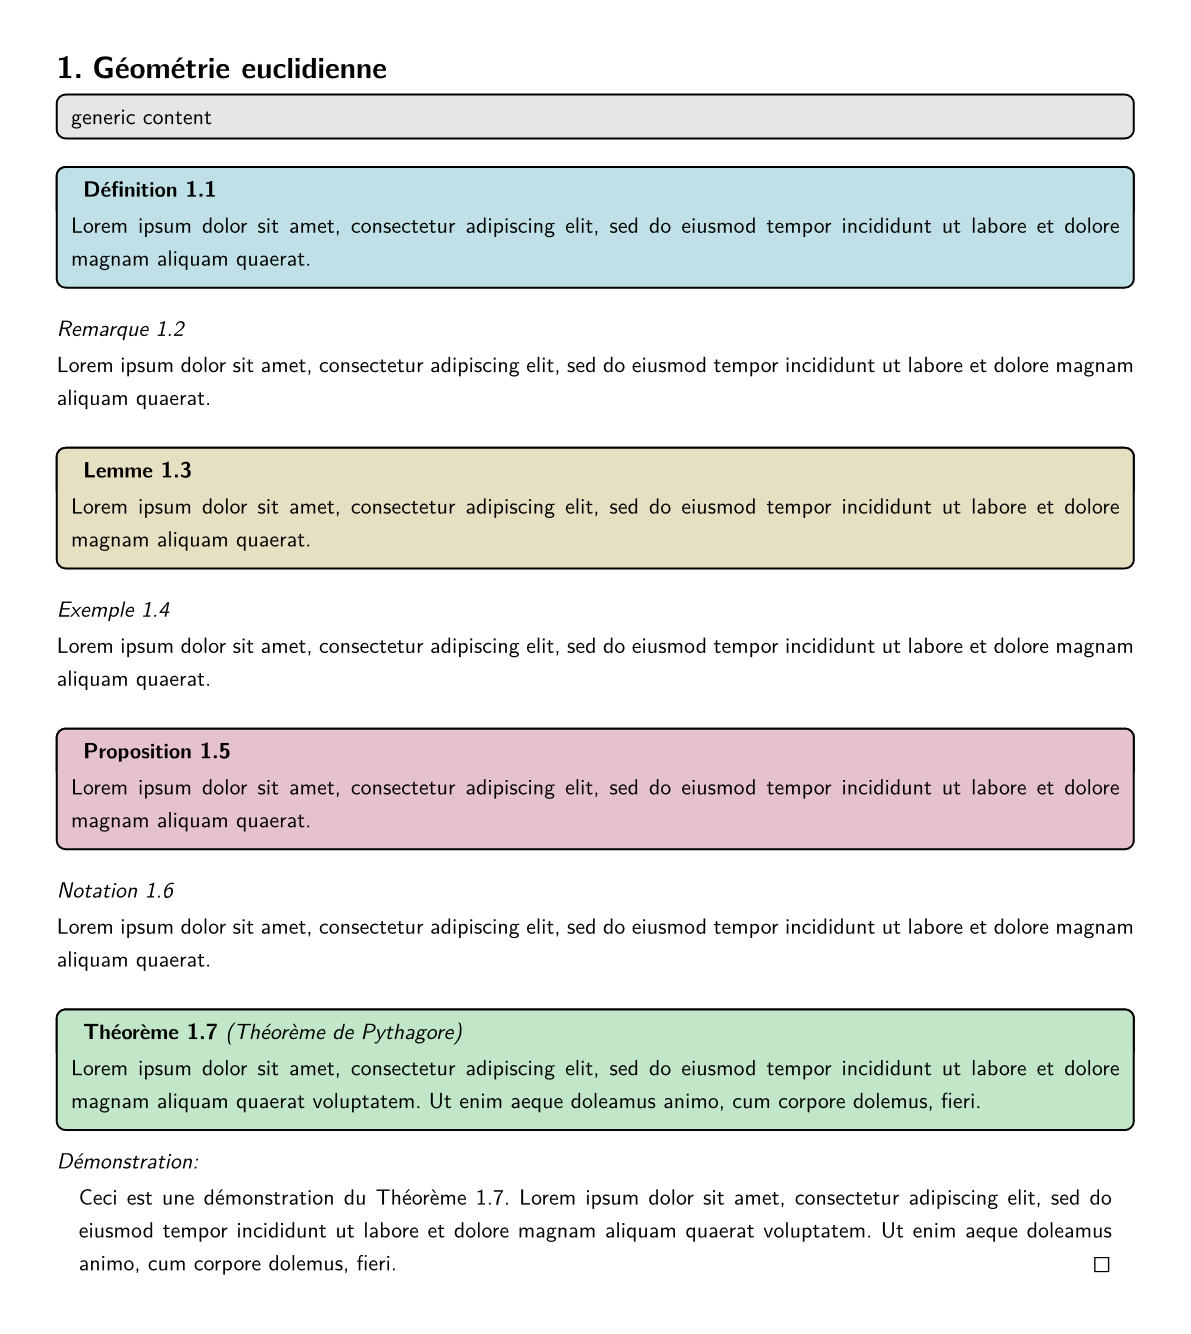
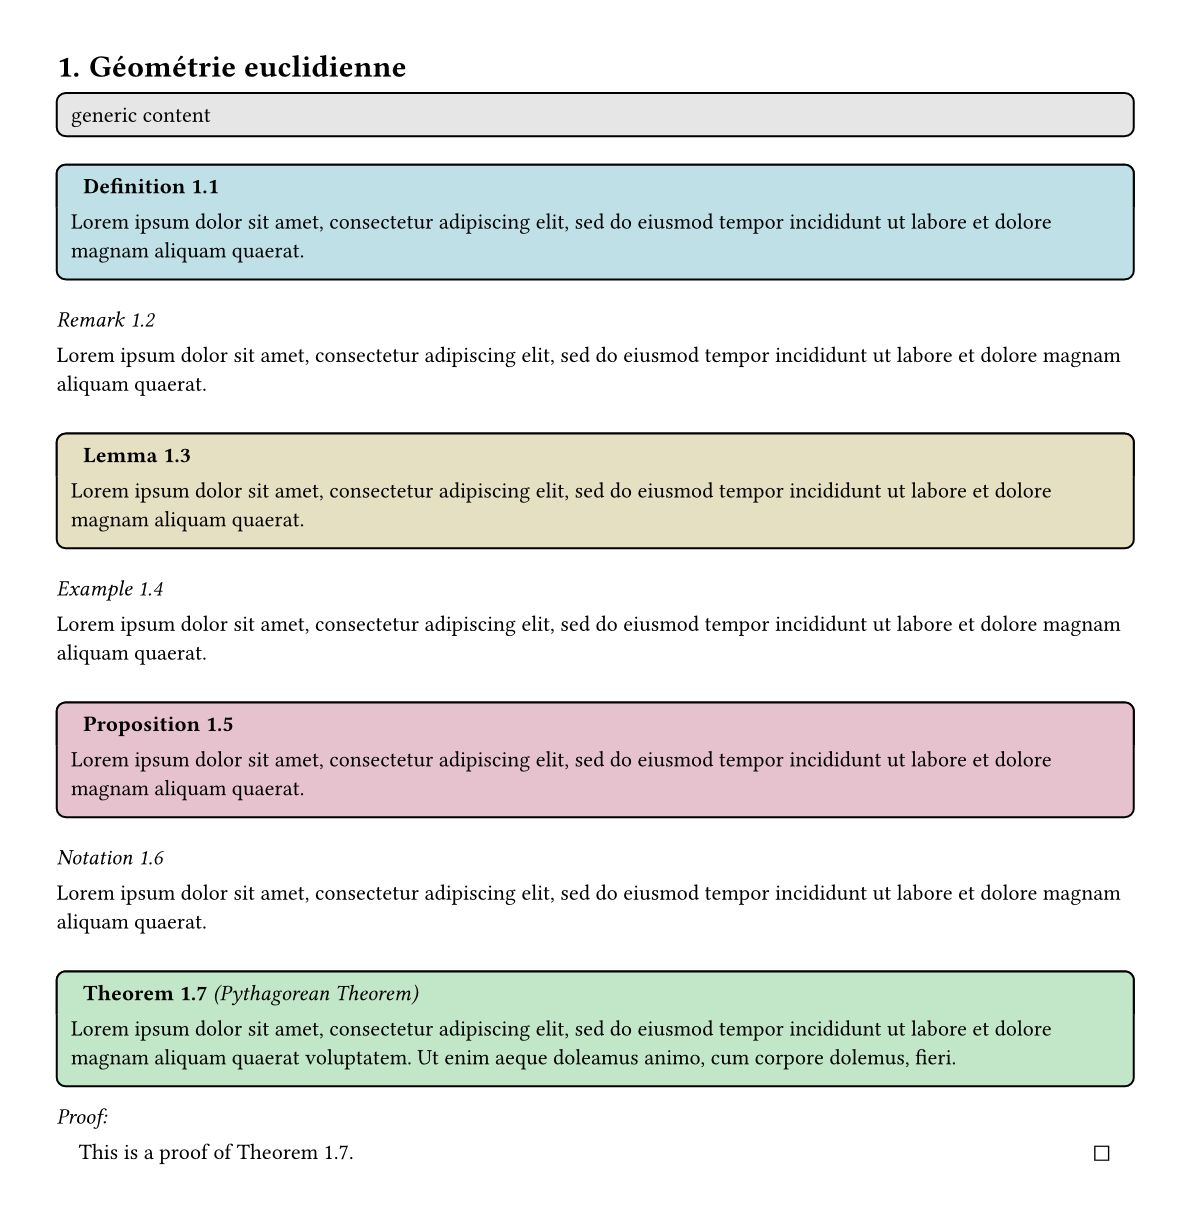
[fix] clean up README and examples

Changed region(s): [[0.0311, 0.0311, 0.9631, 0.964]]

diff --git a/README.md b/README.md
@@ -20,23 +20,18 @@ French, German and English are supported and theorem titles depend on text langa
 Simply download the package locally (as described on the [Typst Packages](https://github.com/typst/packages)) repository. Then import and use mathemateach. 
 
 ### simple theme
-```typst
-#import "@local/mathemateach:0.1.0": *
-
 // import simple style
 #import theorem.simple: * 
 
 #set page(height: auto, margin: 1cm)
-
-// *optional*: personal default settings (fonts, layout, etc.)
-#show: apply-default 
+#set heading(numbering: "1.")
 
 // applies the imported style, with theorem counter based on level-1 headings
 #show: show-theorem.with(counter-level: 1)  
 
 = Géométrie euclidienne
 
-// a generic styled box
+// a content-only box (without title) with matching styling 
 #generic-theorem[generic content]
 
 #definition[ #lorem(20) ]
@@ -52,11 +47,8 @@ Simply download the package locally (as described on the [Typst Packages](https:
 #notation[ #lorem(20) ]
 
 // a theorem followed by its proof
-#theorem(label: <thm1>, name: [Théorème de Pythagore])[ #lorem(30) ]
-#proof[ Ceci est une démonstration du @thm1. #lorem(30) ]
-
-#corollary[ #lorem(20) ]
-
+#theorem(label: <thm1>, name: [Pythagorean Theorem])[ #lorem(30) ]
+#proof[ This is a proof of @thm1. ]
 ```
 
 ![image](./theorem/examples/simple-test.png)
@@ -68,9 +60,9 @@ Simply download the package locally (as described on the [Typst Packages](https:
 // import box-colorful style
 #import theorem.box-colorful: * 
 
-#set page(height: auto)
+#set page(height: auto, margin: 1cm)
+#set heading(numbering: "1.")
 
-#show: apply-default 
 #show: show-theorem.with(counter-level: 1)  
 
 [...]
@@ -86,9 +78,9 @@ Simply download the package locally (as described on the [Typst Packages](https:
 // import fancy-colorful style
 #import theorem.fancy-colorful: * 
 
-#set page(height: auto)
+#set page(height: auto, margin: 1cm)
+#set heading(numbering: "1.")
 
-#show: apply-default 
 #show: show-theorem.with(counter-level: 1)  
 
 [...]
@@ -104,9 +96,9 @@ Simply download the package locally (as described on the [Typst Packages](https:
 // import bar-colorful style
 #import theorem.bar-colorful: * 
 
-#set page(height: auto)
+#set page(height: auto, margin: 1cm)
+#set heading(numbering: "1.")
 
-#show: apply-default 
 #show: show-theorem.with(counter-level: 1)  
 
 [...]
@@ -122,9 +114,9 @@ Simply download the package locally (as described on the [Typst Packages](https:
 // import tbar-colorful style
 #import theorem.tbar-colorful: * 
 
-#set page(height: auto)
+#set page(height: auto, margin: 1cm)
+#set heading(numbering: "1.")
 
-#show: apply-default 
 #show: show-theorem.with(counter-level: 1)  
 
 [...]
@@ -140,9 +132,9 @@ Simply download the package locally (as described on the [Typst Packages](https:
 // import smallbox-colorful style
 #import theorem.smallbox-colorful: * 
 
-#set page(height: auto)
+#set page(height: auto, margin: 1cm)
+#set heading(numbering: "1.")
 
-#show: apply-default 
 #show: show-theorem.with(counter-level: 1)  
 
 [...]
